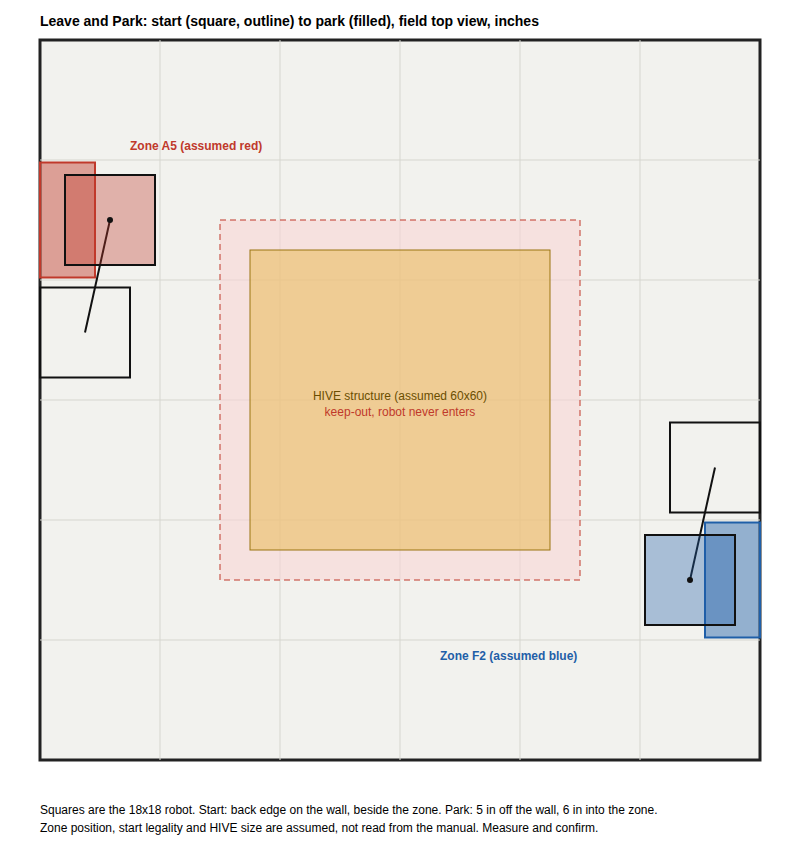
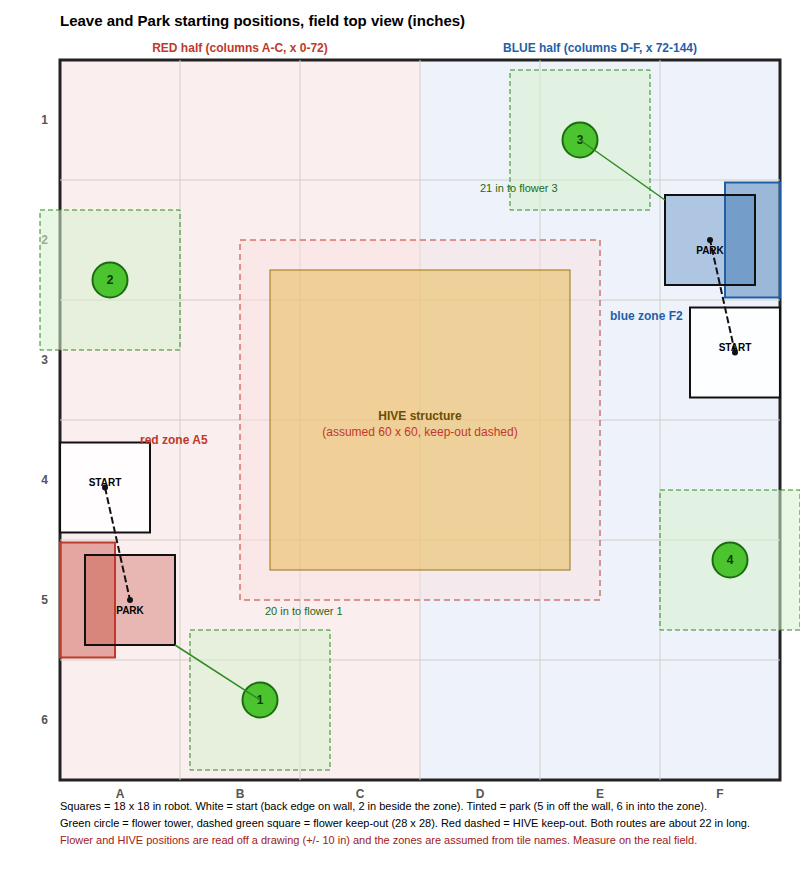
Leave and Park: keep clear of the four flowers, new start diagram
Claude-Session: https://claude.ai/code/session_016owDquqKozXtCoZ9zS6DzJ

diff --git a/TeamCode/src/main/java/org/firstinspires/ftc/teamcode/LeaveAndPark.java b/TeamCode/src/main/java/org/firstinspires/ftc/teamcode/LeaveAndPark.java
@@ -27,9 +27,10 @@ import org.firstinspires.ftc.teamcode.util.LeaveParkPlan;
  * Field elements and how they are avoided:
  *   - Perimeter walls: the plan keeps the robot's whole footprint inside the field, and the route ends clear of
  *     the wall by LEAVE_CLEARANCE_IN.
- *   - HIVE structure (with its flowers) in the middle of the field: a keep-out square around it is checked along the
- *     whole planned line before the robot moves, and against the live position every loop while it moves. The route
- *     stays at the field edge, more than 35 in from the keep-out.
+ *   - HIVE structure in the middle of the field and the four FLOWER towers (they stand near the perimeter walls in a
+ *     pinwheel pattern, NOT in the middle): a keep-out square around each is checked along the whole planned line
+ *     before the robot moves, and against the live position every loop while it moves. The route stays at the field
+ *     edge, over 35 in from the HIVE keep-out; the closest flower is about 20 in from the swept area.
  *   - Other robots can not be planned for. Agree with your alliance partner which of you leaves first, and use
  *     START_DELAY_SEC if you need to wait.
  * If any check fails, the robot does not move and the screen says why. If the robot ever leaves the plan, it stops.
@@ -39,8 +40,8 @@ import org.firstinspires.ftc.teamcode.util.LeaveParkPlan;
  *      from where the loading zone is, and the plan refuses a start that is not fully inside that half.
  *   B. not attached to or hanging from a field element: you check this by eye.
  *   C. touching the perimeter wall: the start pose puts the back edge exactly on the wall.
- *   D. not touching or inside a FLOWER's scoring volume: the flowers are part of the HIVE structure in the middle,
- *      far from the start. Check by eye; the plan also keeps clear of a keep-out area around the HIVE.
+ *   D. not touching or inside a FLOWER's scoring volume: each flower has a keep-out square (FLOWER_HALF_IN plus
+ *      FLOWER_MARGIN_IN around its centre) that the start, the route and the end must stay out of. Check by eye too.
  *   E. not in the LOADING ZONE: the start is beside the zone with START_GAP_IN (at least 1 in) of space.
  *   F. inside the starting configuration (18 in cube): the plan refuses a robot size over 18 in. Height and any
  *      parts that unfold are for you to check.
@@ -49,10 +50,14 @@ import org.firstinspires.ftc.teamcode.util.LeaveParkPlan;
  *   H. fully motionless after INIT: the only motor command before START is zero power (from building the follower).
  *
  * VERIFY BEFORE USE (see the numbers marked ASSUMED): the game manual could not be read from the build machine, so
- * the loading zone position and the HIVE size came from search results, not the manual.
- * 1. Measure the LOADING ZONE tape on your field and fix ZONE_* (inches from the bottom-left corner of your frame).
- *    Per the manual's columns, the red zone is in column A and the blue zone in column F.
- * 2. Set ROBOT_LENGTH_IN / ROBOT_WIDTH_IN to the real chassis size in the start configuration (at most 18 x 18).
+ * the loading zone position, the flower positions and the HIVE size came from search results and a field drawing,
+ * not the manual. The positions are in a frame where x runs from the red alliance wall (x = 0) to the blue wall
+ * (x = 144), and y runs along the walls.
+ * 1. Measure the LOADING ZONE tape on your field and fix ZONE_* (inches in that frame). Per the manual's columns,
+ *    the red zone is in column A and the blue zone in column F.
+ * 2. Measure the centre of each FLOWER tower and fix FLOWER_n_X / FLOWER_n_Y. The defaults were read off a drawing
+ *    and can be about 10 in out.
+ * 3. Set ROBOT_LENGTH_IN / ROBOT_WIDTH_IN to the real chassis size in the start configuration (at most 18 x 18).
  *
  * Setup: robot centred beside the zone as shown on the Driver Station, back edge flat against the wall, facing away
  * from the wall. The Driver Station prints the exact start and end poses at INIT.
@@ -63,12 +68,13 @@ import org.firstinspires.ftc.teamcode.util.LeaveParkPlan;
 public class LeaveAndPark extends LinearOpMode {
 
     // ASSUMED: the red LOADING ZONE is on tile A5 and the blue one on tile F2 (a 180 degree turn of each other),
-    // about 23 in along the wall and 11 in deep. Here A5 is taken as the left wall, 5th tile up from the bottom.
+    // about 23 in along the wall and 11 in deep. In this frame the red wall is x = 0 and tile row 5 is y 24 to 48
+    // (rows counted from the other end), which matches where the red tape sits in the field drawing.
     // Measure your field and correct these. Rectangle corners in inches, before ROTATE_180.
     public static double ZONE_X_MIN = 0.0;
-    public static double ZONE_Y_MIN = 96.5;
+    public static double ZONE_Y_MIN = 24.5;
     public static double ZONE_X_MAX = 11.0;
-    public static double ZONE_Y_MAX = 119.5;
+    public static double ZONE_Y_MAX = 47.5;
 
     /**
      * false = use the zone rectangle as typed (the red zone, columns A-C, the x 0 to 72 half);
@@ -76,8 +82,11 @@ public class LeaveAndPark extends LinearOpMode {
      */
     public static boolean ROTATE_180 = false;
 
-    /** Which side of the zone to start on along the wall: -1 or +1. Pick the side with more free space. */
-    public static int START_SIDE = -1;
+    /**
+     * Which side of the zone to start on along the wall: -1 or +1. Default +1 (toward larger y on the red wall), which
+     * is away from the flower at about (40, 16). The plan refuses a side that hits a flower or leaves your half.
+     */
+    public static int START_SIDE = 1;
 
     /** Real robot size in the start configuration, inches (18 x 18 is the largest allowed to start). */
     public static double ROBOT_LENGTH_IN = 18.0; // front to back
@@ -88,6 +97,17 @@ public class LeaveAndPark extends LinearOpMode {
 
     /** How far the robot's back edge ends up from the wall. Must be above 0 for LEAVE; zone depth minus this is the overlap. */
     public static double LEAVE_CLEARANCE_IN = 5.0;
+
+    // ASSUMED: the four FLOWER tower centres, read off a field drawing (+/- 10 in), in the same frame as the zone.
+    // They stand near the walls, and the set looks the same after a 180 degree turn, so ROTATE_180 does not move them.
+    public static double FLOWER_1_X = 40.0,  FLOWER_1_Y = 16.0;
+    public static double FLOWER_2_X = 10.0,  FLOWER_2_Y = 100.0;
+    public static double FLOWER_3_X = 104.0, FLOWER_3_Y = 128.0;
+    public static double FLOWER_4_X = 134.0, FLOWER_4_Y = 44.0;
+    /** Half the side of the square kept clear around each flower centre (tower plus its scoring volume), inches. */
+    public static double FLOWER_HALF_IN = 10.0;
+    /** Extra margin around that square, inches. */
+    public static double FLOWER_MARGIN_IN = 4.0;
 
     /** ASSUMED: HIVE structure half size around the field centre, inches (frame about 49 x 39 plus flowers), grown by the margin. */
     public static double HIVE_HALF_X_IN = 30.0;
@@ -124,6 +144,10 @@ public class LeaveAndPark extends LinearOpMode {
         c.hiveHalfXIn = HIVE_HALF_X_IN;
         c.hiveHalfYIn = HIVE_HALF_Y_IN;
         c.hiveMarginIn = HIVE_MARGIN_IN;
+        c.flowers = new double[][]{
+                {FLOWER_1_X, FLOWER_1_Y}, {FLOWER_2_X, FLOWER_2_Y}, {FLOWER_3_X, FLOWER_3_Y}, {FLOWER_4_X, FLOWER_4_Y}};
+        c.flowerHalfIn = FLOWER_HALF_IN;
+        c.flowerMarginIn = FLOWER_MARGIN_IN;
         return LeaveParkPlan.plan(c);
     }
 

diff --git a/TeamCode/src/main/java/org/firstinspires/ftc/teamcode/util/LeaveParkPlan.java b/TeamCode/src/main/java/org/firstinspires/ftc/teamcode/util/LeaveParkPlan.java
@@ -17,10 +17,11 @@ import java.util.List;
  *
  * Start rules from the manual (robot set-up) that the plan checks: fully on its own alliance half of the field
  * (columns A, B, C = red = the half the zone is in, D, E, F = blue), touching the perimeter wall, not in the LOADING
- * ZONE, and inside the 18 in starting configuration. Not touching a FLOWER is covered by the HIVE keep-out.
+ * ZONE, and inside the 18 in starting configuration. Not touching a FLOWER is covered by the FLOWER keep-outs.
  *
- * Field elements that are avoided: the perimeter walls and the HIVE structure (a keep-out rectangle in the centre of
- * the field, grown by a safety margin). The checks run before the match (plan) and during it (violation).
+ * Field elements that are avoided: the perimeter walls, the HIVE structure (a keep-out rectangle in the centre of
+ * the field) and the four FLOWER towers near the walls (a keep-out square around each), all grown by safety margins.
+ * The checks run before the match (plan) and during it (violation).
  */
 public final class LeaveParkPlan {
 
@@ -46,6 +47,16 @@ public final class LeaveParkPlan {
         public double maxStartSizeIn = 18.0;
         /** Minimum depth the robot must overlap the zone at the end, inches. */
         public double minZoneOverlapIn = 3.0;
+        /**
+         * The four FLOWER towers, centre points {x, y} in field coordinates. They stand near the perimeter walls in a
+         * pinwheel pattern, so they matter for a start beside a wall. They are the same after a 180 degree turn, so
+         * ROTATE_180 does not move them. DEFAULTS ARE READ OFF A DRAWING (about +/- 10 in): measure the real ones.
+         */
+        public double[][] flowers = {{40, 16}, {10, 100}, {104, 128}, {134, 44}};
+        /** Half the side of the square kept clear around a flower centre: tower radius plus the rule's scoring volume. */
+        public double flowerHalfIn = 10.0;
+        /** Extra margin around that square, inches. */
+        public double flowerMarginIn = 4.0;
         /** HIVE structure keep-out: half sizes around the field centre, and the extra margin around it. */
         public double hiveHalfXIn = 30.0, hiveHalfYIn = 30.0, hiveMarginIn = 6.0;
         /** Slack allowed when checking the robot against the field edge (the start touches the wall). */
@@ -58,6 +69,8 @@ public final class LeaveParkPlan {
     public final double[] zone = new double[4];
     /** Keep-out rectangle (hive + margin): {xMin, yMin, xMax, yMax}. */
     public final double[] keepOut = new double[4];
+    /** Keep-out squares around the flowers, same layout as keepOut. */
+    public final List<double[]> flowerKeepOuts = new ArrayList<>();
     /** "red (x 0-72)" or "blue (x 72-144)": the field half the robot must start in, taken from where the zone is. */
     public String allianceHalf = "";
     /** Human readable reasons the plan must not be run. Empty = OK. */
@@ -88,6 +101,11 @@ public final class LeaveParkPlan {
         keepOut[1] = FIELD_IN / 2 - c.hiveHalfYIn - c.hiveMarginIn;
         keepOut[2] = FIELD_IN / 2 + c.hiveHalfXIn + c.hiveMarginIn;
         keepOut[3] = FIELD_IN / 2 + c.hiveHalfYIn + c.hiveMarginIn;
+
+        double fh = c.flowerHalfIn + c.flowerMarginIn;
+        for (double[] f : c.flowers) {
+            flowerKeepOuts.add(new double[]{f[0] - fh, f[1] - fh, f[0] + fh, f[1] + fh});
+        }
 
         if (c.robotLengthIn > c.maxStartSizeIn + 0.01 || c.robotWidthIn > c.maxStartSizeIn + 0.01) {
             problems.add(String.format("Robot is %.1f x %.1f in; the starting configuration may not exceed %.0f in.",
@@ -217,11 +235,19 @@ public final class LeaveParkPlan {
         if (minX < -t || minY < -t || maxX > FIELD_IN + t || maxY > FIELD_IN + t) {
             return "robot would be outside the field walls";
         }
-        double[][] hive = {{keepOut[0], keepOut[1]}, {keepOut[2], keepOut[1]}, {keepOut[2], keepOut[3]}, {keepOut[0], keepOut[3]}};
-        if (overlap(box, hive)) {
+        if (overlap(box, corners(keepOut))) {
             return "robot would touch the HIVE keep-out area";
         }
+        for (int i = 0; i < flowerKeepOuts.size(); i++) {
+            if (overlap(box, corners(flowerKeepOuts.get(i)))) {
+                return "robot would touch the keep-out area of FLOWER " + (i + 1);
+            }
+        }
         return null;
+    }
+
+    private static double[][] corners(double[] r) {
+        return new double[][]{{r[0], r[1]}, {r[2], r[1]}, {r[2], r[3]}, {r[0], r[3]}};
     }
 
     /** Smallest distance from the robot's footprint to any perimeter wall. Above 0 means "no longer touching". */
